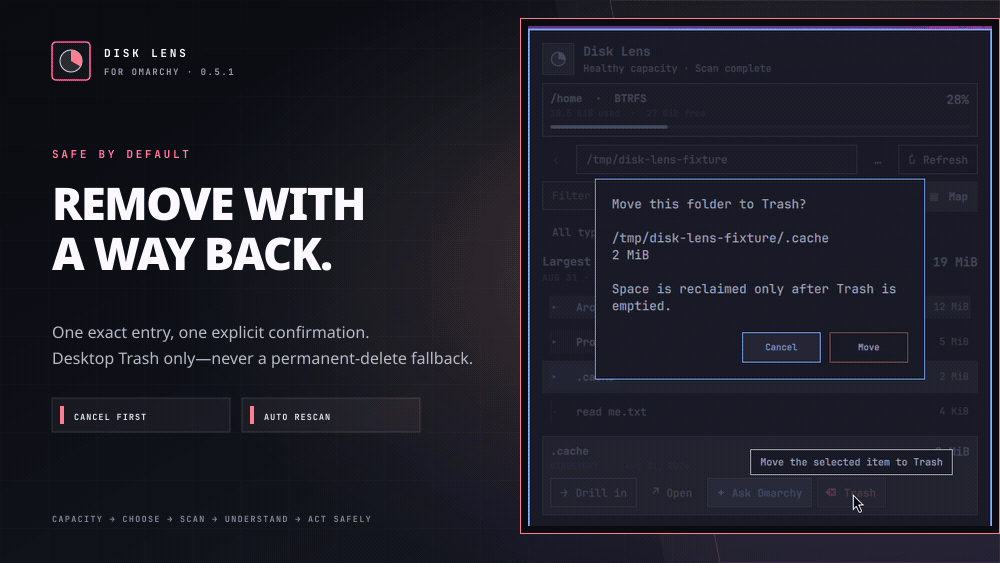
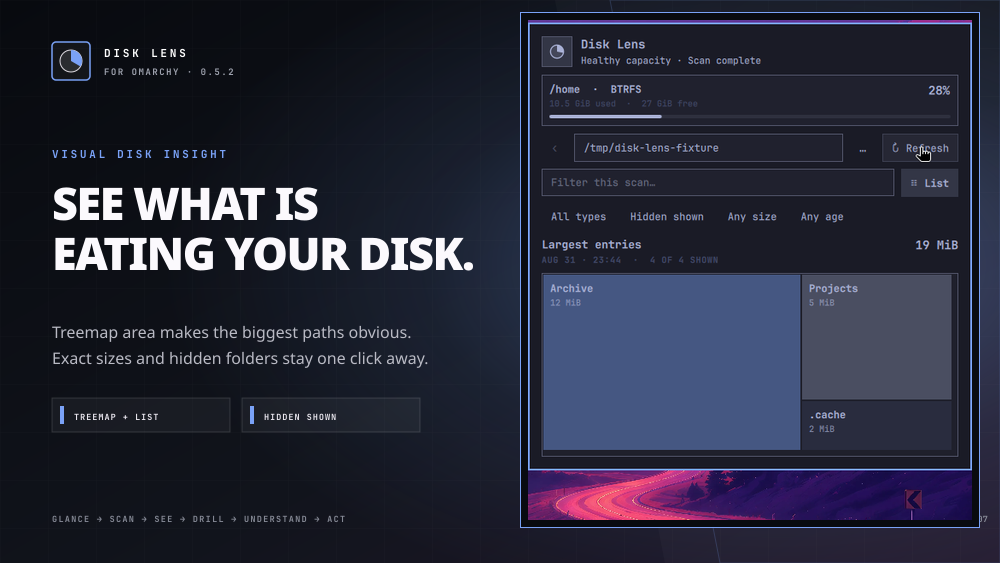
Prepare 0.5.2 insight-led release

diff --git a/src/Model.js b/src/Model.js
@@ -64,7 +64,8 @@ function parseCapacity(raw) {
 
   var fs = payload.filesystems[0]
   if (!plainObject(fs)) return emptyCapacity("Capacity values were incomplete")
-  var percent = parseInt(String(fs["use%"] || "").replace("%", ""), 10)
+  var percentMatch = /^([0-9]{1,3})%$/.exec(String(fs["use%"] || ""))
+  var percent = percentMatch ? Number(percentMatch[1]) : NaN
   if (!finiteBytes(fs.size) || !finiteBytes(fs.used)
       || !finiteBytes(fs.avail) || !isFinite(percent) || percent < 0 || percent > 100)
     return emptyCapacity("Capacity values were incomplete")
@@ -147,14 +148,14 @@ function parseScan(raw) {
         protocolError = "Scanner warning record was invalid"
         break
       }
-      warnings.push(record.message)
+      warnings.push(diagnosticText(record.message, "Scanner warning"))
     } else if (record.type === "error") {
       if (typeof record.message !== "string" || record.message.length === 0
           || record.message.length > MAX_WARNING_LENGTH) {
         protocolError = "Scanner error record was invalid"
         break
       }
-      protocolError = record.message
+      protocolError = diagnosticText(record.message, "Disk scan failed")
       break
     } else if (record.type === "complete") {
       if (!started || typeof record.path !== "string"
@@ -184,6 +185,7 @@ function parseScan(raw) {
       entries: [],
       totalBytes: 0,
       warnings: warnings,
+      warningCount: warnings.length,
       partial: false
     }
   }
@@ -201,6 +203,7 @@ function parseScan(raw) {
     entries: entries,
     totalBytes: Number(completed.totalBytes),
     warnings: warnings,
+    warningCount: Number(completed.warnings),
     partial: completed.partial === true || warnings.length > 0
   }
 }
@@ -228,8 +231,9 @@ function parseFolderList(raw) {
       break
     }
     if (record.type === "error") {
-      errorMessage = typeof record.message === "string" && record.message.length <= MAX_WARNING_LENGTH
-        ? record.message : "Folder browsing failed"
+      errorMessage = typeof record.message === "string" && record.message.length > 0
+          && record.message.length <= MAX_WARNING_LENGTH
+        ? diagnosticText(record.message, "Folder browsing failed") : "Folder browsing failed"
       break
     }
     if (record.type === "folder-start") {
@@ -260,7 +264,8 @@ function parseFolderList(raw) {
     } else if (record.type === "folder-complete") {
       if (!started || record.path !== started.path || !protocolInteger(record.entries)
           || record.entries !== entries.length || typeof record.partial !== "boolean"
-          || typeof record.warning !== "string" || record.warning.length > MAX_WARNING_LENGTH) {
+          || typeof record.warning !== "string" || record.warning.length > MAX_WARNING_LENGTH
+          || (record.warning !== "" && !record.partial)) {
         errorMessage = "Folder browser completion record was invalid"
         break
       }
@@ -281,7 +286,7 @@ function parseFolderList(raw) {
     path: completed.path,
     entries: entries,
     partial: completed.partial,
-    warning: completed.warning
+    warning: completed.warning ? diagnosticText(completed.warning, "Folder browsing was incomplete") : ""
   }
 }
 
@@ -302,6 +307,12 @@ function formatBytes(value) {
 
 function safeLabel(value) {
   return String(value || "").replace(/[\u0000-\u001f\u007f]/g, "�")
+}
+
+function diagnosticText(value, fallback) {
+  var text = safeLabel(value).trim().slice(0, MAX_WARNING_LENGTH)
+  if (text) return text
+  return safeLabel(fallback || "Operation failed").trim().slice(0, MAX_WARNING_LENGTH)
 }
 
 function safeMarkupLabel(value) {
@@ -497,6 +508,7 @@ if (typeof module !== "undefined") {
     parseFolderList: parseFolderList,
     formatBytes: formatBytes,
     safeLabel: safeLabel,
+    diagnosticText: diagnosticText,
     safeMarkupLabel: safeMarkupLabel,
     isImmediateChild: isImmediateChild,
     normalizeScopeInput: normalizeScopeInput,

diff --git a/src/Service.qml b/src/Service.qml
@@ -12,7 +12,7 @@ Item {
   property var barWidgetRegistry: null
   property string omarchyPath: ""
 
-  readonly property string buildIdentity: "disk-lens-service-v0501"
+  readonly property string buildIdentity: "disk-lens-service-v0502"
   readonly property string homePath: Quickshell.env("HOME")
   readonly property string sourceDir: manifest ? String(manifest.__sourceDir || "") : ""
   readonly property string scannerPath: sourceDir ? sourceDir + "/scripts/disk-lens-scan" : ""
@@ -30,6 +30,7 @@ Item {
   property double totalBytes: 0
   property bool partial: false
   property var warnings: []
+  property double warningCount: 0
   property string scanError: ""
   property double scannedAt: 0
   property bool expectedStop: false
@@ -72,7 +73,6 @@ Item {
 
     scanPath = selectedPath
     scanError = ""
-    warnings = []
     expectedStop = false
     scanOutput = ""
     scanStderr = ""
@@ -122,6 +122,7 @@ Item {
       entries = snapshot.entries.slice()
       totalBytes = snapshot.totalBytes
       warnings = snapshot.warnings.slice()
+      warningCount = snapshot.warningCount
       partial = snapshot.partial
       lastScanPath = snapshot.path
       scanPath = snapshot.path
@@ -208,6 +209,7 @@ Item {
     entries = result.entries
     totalBytes = result.totalBytes
     warnings = result.warnings
+    warningCount = result.warningCount
     partial = result.partial
     lastScanPath = result.path
     scanPath = result.path
@@ -220,6 +222,7 @@ Item {
       entries: entries.slice(),
       totalBytes: totalBytes,
       warnings: warnings.slice(),
+      warningCount: warningCount,
       partial: partial,
       scannedAt: scannedAt
     })
@@ -237,7 +240,7 @@ Item {
       entryCount: entries.length,
       totalBytes: totalBytes,
       partial: partial,
-      warningCount: warnings.length,
+      warningCount: warningCount,
       scanError: scanError,
       scannedAt: scannedAt,
       cacheCount: scanCache.length,
@@ -267,7 +270,7 @@ Item {
     onExited: function(exitCode) {
       if (exitCode !== 0) {
         root.capacityState = "failed"
-        root.capacityError = String(capacityStderr.text || "Could not read filesystem capacity").trim()
+        root.capacityError = Model.diagnosticText(capacityStderr.text, "Could not read filesystem capacity")
         return
       }
       var parsed = Model.parseCapacity(capacityStdout.text)
@@ -299,8 +302,8 @@ Item {
 
       if (exitCode !== 0) {
         root.trashState = "failed"
-        root.trashError = String(trashStderr.text || "The selected item could not be moved to Trash")
-          .replace(/[\u0000-\u001f\u007f]/g, " ").trim().slice(0, 8192)
+        root.trashError = Model.diagnosticText(trashStderr.text,
+          "The selected item could not be moved to Trash")
         return
       }
 
@@ -344,7 +347,8 @@ Item {
       var output = String(scanStdout.text || root.scanOutput || "")
       if (exitCode !== 0 && !output) {
         root.scanState = "failed"
-        root.scanError = String(scanStderrCollector.text || root.scanStderr || "Disk scan failed").trim()
+        root.scanError = Model.diagnosticText(scanStderrCollector.text || root.scanStderr,
+          "Disk scan failed")
         return
       }
       root.applyScanOutput(output)

diff --git a/tests/model.test.js b/tests/model.test.js
@@ -22,6 +22,9 @@ assert.equal(capacity.target, "/home")
 assert.equal(Model.parseCapacity("not json").available, false)
 assert.doesNotThrow(() => Model.parseCapacity(JSON.stringify({ filesystems: [null] })))
 assert.equal(Model.parseCapacity(JSON.stringify({ filesystems: [null] })).available, false)
+assert.equal(Model.parseCapacity(JSON.stringify({
+  filesystems: [{ size: 1000, used: 720, avail: 280, "use%": "72% full" }]
+})).available, false)
 
 const scanOutput = [
   record({ type: "start", path: "/fixture" }),
@@ -64,6 +67,11 @@ assert.equal(scan.entries.length, 2)
 assert.equal(scan.entries[0].name, "large folder")
 assert.equal(scan.partial, true)
 assert.equal(scan.totalBytes, 1000)
+assert.equal(scan.warningCount, 1)
+assert.equal(Model.parseScan(scanOutput.replace('"warnings":1', '"warnings":25')).warningCount, 25)
+const diagnosticScan = Model.parseScan(scanOutput.replace("one path was unreadable", "warning\\u0007"))
+assert.equal(diagnosticScan.ok, true)
+assert.equal(diagnosticScan.warnings[0], "warning�")
 
 assert.equal(Model.parseScan(scanOutput.replace('"protocol":1', '"protocol":2')).ok, false)
 assert.equal(Model.parseScan(scanOutput.replace(/\n[^\n]+$/, "")).ok, false)
@@ -112,6 +120,7 @@ assert.equal(Model.parseFolderList(folderOutput.replace('"entries":2', '"entries
 assert.equal(Model.parseFolderList(folderOutput.replace('"path":"/fixture/Projects"', '"path":"/outside"')).ok, false)
 assert.equal(Model.parseFolderList(folderOutput.replace('"name":"Projects"', '"name":"Projects\\u0000hidden"')).ok, false)
 assert.equal(Model.parseFolderList(folderOutput.replace(/\n[^\n]+$/, "")).ok, false)
+assert.equal(Model.parseFolderList(folderOutput.replace('"warning":""', '"warning":"unexpected"')).ok, false)
 
 const boundedWarnings = [record({ type: "start", path: "/fixture" })]
 for (let index = 0; index < Model.MAX_WARNINGS; index += 1)
@@ -143,6 +152,8 @@ assert.equal(Model.formatBytes(0), "0 B")
 assert.equal(Model.formatBytes(1024), "1 KiB")
 assert.equal(Model.formatBytes(1073741824), "1 GiB")
 assert.equal(Model.safeLabel("line\nname\t"), "line�name�")
+assert.equal(Model.diagnosticText("  line\nname\t  ", "fallback"), "line�name�")
+assert.equal(Model.diagnosticText("", "fallback"), "fallback")
 assert.equal(Model.safeMarkupLabel("/fixture/<b>&name\n"), "/fixture/&lt;b&gt;&amp;name�")
 assert.equal(Model.normalizeScopeInput("~", "/home/tester"), "/home/tester")
 assert.equal(Model.normalizeScopeInput("~/Steam/", "/home/tester"), "/home/tester/Steam")

diff --git a/src/BarWidget.qml b/src/BarWidget.qml
@@ -11,7 +11,7 @@ BarWidget {
 
   moduleName: "io.github.mtolhuys.disk-lens"
 
-  readonly property string buildIdentity: "disk-lens-widget-v0501"
+  readonly property string buildIdentity: "disk-lens-widget-v0502"
   readonly property var diskService: bar && bar.shell
     ? bar.shell.serviceFor("io.github.mtolhuys.disk-lens") : null
   readonly property var capacity: diskService ? diskService.capacity : Model.parseCapacity("")
@@ -427,7 +427,7 @@ BarWidget {
       var output = String(folderListStdout.text || "")
       if (exitCode !== 0 && !output) {
         root.folderPickerState = "failed"
-        root.folderPickerError = String(folderListStderr.text || "Folder browsing failed").trim()
+        root.folderPickerError = Model.diagnosticText(folderListStderr.text, "Folder browsing failed")
         return
       }
       var result = Model.parseFolderList(output)
@@ -1239,8 +1239,8 @@ BarWidget {
             spacing: Style.space(9)
 
             Text {
-              text: "Partial scan · " + (root.diskService ? root.diskService.warnings.length : 0)
-                + ((root.diskService && root.diskService.warnings.length === 1) ? " warning" : " warnings")
+              text: "Partial scan · " + (root.diskService ? root.diskService.warningCount : 0)
+                + ((root.diskService && root.diskService.warningCount === 1) ? " warning" : " warnings")
               color: Color.accent
               font.family: Style.font.family
               font.pixelSize: Style.font.body

diff --git a/docs/ARCHITECTURE.md b/docs/ARCHITECTURE.md
@@ -45,9 +45,9 @@ Capacity refreshes at service start, panel open, middle-click, explicit IPC requ
 
 The helper emits protocol-versioned NDJSON. The parser requires one start record, no more than 5,000 valid entry records, no more than 20 bounded warnings, and one matching completion record whose path, entry count, warning floor, totals, and completeness flag agree with the parsed stream. Paths, names, encoded paths, flags, warnings, and numeric fields have explicit type or length bounds. Unknown versions, types, malformed JSON, invalid fields, truncation, or missing completion fail the attempt without replacing the last good result.
 
-The QML process collector promotes a complete parsed result atomically. Permission and I/O messages become a bounded warning set and mark the completed result partial. Cancellation stops the helper, which terminates its owned `du` child and cleans temporary state.
+The QML process collector promotes a complete parsed result atomically. Permission and I/O messages become a bounded, control-free warning set, while the completion record retains the total warning count. Starting or cancelling a replacement scan leaves every last-good result field intact. Cancellation stops the helper, which terminates its owned `du` child and cleans temporary state.
 
-The `du` traversal is already the only recursive process. Post-processing first classifies UTF-8 once for the common case, then resolves file type and modification metadata in groups of 64 and emits JSON in groups of 64. A source regression proves that 1,024 normal entries require no more than 16 `stat` processes, 18 `jq` processes, two `iconv` processes, and no standalone `base64` process; invalid UTF-8 uses a deliberately slower isolated fallback.
+The `du` traversal is already the only recursive process. Post-processing first classifies UTF-8 once for the common case, then resolves locale-independent file type and modification metadata in groups of 64 and emits JSON in groups of 64. Valid pre-epoch timestamps normalize to the protocol's unknown-date value instead of invalidating the scan. A source regression proves that 1,024 normal entries require no more than 16 `stat` processes, 18 `jq` processes, two `iconv` processes, and no standalone `base64` process; invalid UTF-8 uses a deliberately slower isolated fallback.
 
 ## Folder browser adapter
 
@@ -59,7 +59,7 @@ The browser stays inside the Omarchy panel. A native `QtQuick.Dialogs`/GTK folde
 
 One active in-memory entry array drives both projections. Filters are pure projections over name, kind, hidden status, minimum allocated bytes, and maximum modification age. Hidden entries are included by default. Filtered bytes are labelled independently from scanned totals. Treemap geometry is bounded to the 48 largest visible entries; the ranked view renders at most 80 and directs the user to filters for further narrowing.
 
-Drilling into an actionable directory pushes the prior scope into a 16-step widget history and starts a new immediate-child scan only when that target has no cache entry. The service retains at most eight completed scopes and 12,000 total entries, with the Home result retained when it fits alongside the active result. Back promotes the cached snapshot atomically and preserves its original timestamp; explicit Refresh always starts a new scan. Version `0.5.1` does not persist scopes or results, so a shell reload returns to Home and first-use state.
+Drilling into an actionable directory pushes the prior scope into a 16-step widget history and starts a new immediate-child scan only when that target has no cache entry. The service retains at most eight completed scopes and 12,000 total entries, with the Home result retained when it fits alongside the active result. Back promotes the cached snapshot atomically and preserves its original timestamp; explicit Refresh always starts a new scan. Version `0.5.2` does not persist scopes or results, so a shell reload returns to Home and first-use state.
 
 `src/ActivityRing.qml` paints the single theme-derived scan ring around the bar gauge, exists visually only while its `running` property is true, and exposes progress semantics. Panel status and Cancel remain literal and static, so scan state stays available when motion cannot be perceived.
 
@@ -77,7 +77,7 @@ After success, the service clears its navigation cache, refreshes capacity, and 
 
 ## Btrfs accounting
 
-Filesystem free space and per-path allocation answer different questions. Snapshots, compression, and shared extents can explain a gap. Version `0.5.1` does not calculate exclusive/shared extents, snapshot ownership, or reclaimable bytes.
+Filesystem free space and per-path allocation answer different questions. Snapshots, compression, and shared extents can explain a gap. Version `0.5.2` does not calculate exclusive/shared extents, snapshot ownership, or reclaimable bytes.
 
 ## Lifecycle and development snapshots
 

diff --git a/docs/SCREENSHOTS.md b/docs/SCREENSHOTS.md
@@ -12,15 +12,15 @@ Repository media must come from the current Disk Lens runtime in a disposable Om
 - `disk-lens-agent.png`: selected synthetic directory with visible **Ask Omarchy** and **Trash** actions;
 - `disk-lens-filtered-list.png`: one-result ranked list after rendered search and view controls;
 - `disk-lens-showcase.gif`: deterministic widescreen product tour built from the captures above;
-- `preview.png`: deterministic marketplace preview extracted from the safe-removal scene.
+- `preview.png`: deterministic marketplace preview built from the opening visual-insight scene.
 
-The GIF presents seven truthful native scenes: one clear starting action, in-place folder choice, explicit scanning, visual analysis, recoverable selected-item removal, read-only agent guidance, and focused filtering. It stays legible at GitHub README width and does not imply automatic scans, permanent deletion, empty-Trash cleanup, privileged analysis, package installation, or a sandboxed agent.
+The GIF leads with visual analysis, then presents capacity, in-place folder choice, explicit scanning, focused filtering, read-only agent guidance, and recoverable selected-item removal. It stays legible at GitHub README width and does not imply automatic scans, permanent deletion, empty-Trash cleanup, privileged analysis, package installation, or a sandboxed agent.
 
 ## Current provenance
 
-All seven source captures come from green `0.5.1` Plugin Lab run `20260831-234322`, which exercised clean repository candidate `671be6091a981f651e6cedd13a77a9000512375a` through installed development snapshot `489839281f1f`. The synthetic `1280x800` captures cover first use without a duplicate header close action, the inline browser, the single-indicator scan state, hidden-by-default storage visibility, exact-target Trash confirmation, the selected-folder agent action, and filtering.
+Until the `0.5.2` candidate completes its exact-candidate visual run, all seven source captures remain the synthetic `1280x800` images from green `0.5.1` Plugin Lab run `20260831-234322`. The candidate does not claim those historical captures as new runtime evidence; they temporarily preserve truthful first-use, inline-browser, single-indicator, treemap, Trash, agent, and filter compositions while the release media is prepared.
 
[2 lines of base64/hex data omitted]
 
 Rebuild both derivatives with:
 

diff --git a/docs/TESTING.md b/docs/TESTING.md
@@ -11,7 +11,7 @@ make test
 make validate
 ```
 
-`make test` proves the manifest and entry points; strict capacity, scan, and shallow-folder parsing; bounded paths, warnings, totals, completion accounting, and post-processing process counts; deterministic formatting, scope normalization, navigation helpers, filtering, totals, and treemap geometry; hidden and hostile filenames plus invalid UTF-8 handling; guarded Trash arguments, parent-scope enforcement, symlink treatment, no-shell hostile paths, and no permanent-delete fallback; usable partial results; cancellation cleanup; rejected invalid arguments; English tracked text; and ShellCheck when available. Fixtures use temporary synthetic directories only and never traverse the developer's Home directory or modify the host desktop Trash.
+`make test` proves the manifest and entry points; strict capacity, scan, and shallow-folder parsing; bounded control-free diagnostics, paths, warnings, totals, completion accounting, and post-processing process counts; locale-independent kind detection and pre-epoch timestamp normalization; generated-helper-to-model compatibility; deterministic formatting, scope normalization, navigation helpers, filtering, totals, and treemap geometry; hidden and hostile filenames plus invalid UTF-8 handling; guarded Trash arguments, parent-scope enforcement, symlink treatment, no-shell hostile paths, and no permanent-delete fallback; usable partial results; cancellation cleanup; rejected invalid arguments; English tracked text; and ShellCheck when available. Fixtures use temporary synthetic directories only and never traverse the developer's Home directory or modify the host desktop Trash.
 
 ## Product-owned Plugin Lab scenario
 
@@ -36,7 +36,7 @@ cd "$OMARCHY_PLUGIN_LAB_ROOT"
 10. a same-path public plugin update replacing both loaded identities;
 11. disable, re-enable, removal, ordinary user-data preservation, retained desktop Trash contents, and clean logs.
 
-`public-install.sh` separately proves that the README's public GitHub URL clones the expected repository commit, passes Omarchy validation, enables and loads both `v0501` entry points, and removes cleanly through the documented plugin id. It must be rerun after the candidate is published; the local development acceptance does not substitute for public-clone evidence.
+`public-install.sh` separately proves that the README's public GitHub URL clones the expected repository commit, passes Omarchy validation, enables and loads both `v0502` entry points, and removes cleanly through the documented plugin id. It must be rerun after the candidate is published; the local development acceptance does not substitute for public-clone evidence.
 
 ## Visual review boundary
 

diff --git a/README.md b/README.md
@@ -1,12 +1,12 @@
 # Omarchy Disk Lens
 
-> A calm, visual answer to “what is eating my disk?” for Omarchy.
+> See exactly what is eating your disk—without leaving Omarchy.
 
-![Omarchy Disk Lens product tour: capacity, active scan, treemap, safe Trash confirmation, agent guidance, and focused filtering](docs/media/disk-lens-showcase.gif)
+![Omarchy Disk Lens product tour: visual disk insight, capacity, scope selection, active scan, focused filtering, agent guidance, and safe Trash confirmation](docs/media/disk-lens-showcase.gif)
 
-Disk Lens puts storage pressure in one quiet Omarchy bar slot. Open it for exact Home-filesystem capacity, type or browse to a scope, explicitly scan it, and use the ranked list or proportional treemap to find the branch worth investigating.
+Disk Lens turns “my disk is full” into an obvious next step. One quiet bar icon opens a proportional treemap and exact ranked list, so the biggest local paths stand out immediately—even when the storage lives inside hidden folders.
 
-Version **0.5.1** is the current public pre-1.0 release. Its quieter header, active-bar toggle, complete native journey, and clean GitHub distribution path are verified in disposable Omarchy desktops.
+Version **0.5.2** is the current pre-1.0 release candidate. It combines the complete native analysis journey with stricter scanner boundaries, resilient refresh state, and a marketplace story led by visual insight instead of cleanup.
 
 ## The useful path from full disk to a clear next step
 
@@ -96,6 +96,6 @@ Start with [CONTRIBUTING.md](CONTRIBUTING.md), [the product contract](docs/PRODU
 
 ## Status
 
-The public `0.5.1` release has source, clean-clone, real-shell, active-bar toggle, inline-folder, typed-scope, cache-restored Back, single-indicator, guarded Trash, visual, hostile-path agent-prompt, update, and lifecycle evidence in disposable guests. Scanner post-processing has a source-enforced process budget. End-to-end performance budgets, dense/narrow layouts, pressure fixtures, complete assistive-technology review, and composed reduced-motion acceptance remain explicit pre-1.0 hardening work.
+The `0.5.2` candidate retains the complete verified `0.5.1` product journey, adds scanner and refresh-state hardening, and makes visual disk insight the opening README and marketplace story. Exact-candidate runtime and public-clone evidence are required before publication. End-to-end performance budgets, dense/narrow layouts, pressure fixtures, complete assistive-technology review, and composed reduced-motion acceptance remain explicit pre-1.0 hardening work.
 
 MIT licensed. See [LICENSE](LICENSE).

diff --git a/docs/PRODUCT.md b/docs/PRODUCT.md
@@ -4,7 +4,7 @@
 
 Omarchy Disk Lens makes Home-filesystem pressure understandable within seconds and provides a clear, fully native route from “the disk is filling up” to “this directory deserves investigation.”
 
-## Implemented `0.5.1` journey
+## Implemented `0.5.2` journey
 
 1. The bar shows used capacity for the filesystem backing Home as a compact proportional pie gauge.
 2. Clicking the widget opens a theme-native panel without starting a recursive scan.
@@ -64,7 +64,7 @@ Omarchy Disk Lens makes Home-filesystem pressure understandable within seconds a
 - **Self-contained:** the full visual analysis flow needs no additional graphical package.
 - **Private by default:** capacity and directory analysis stay local. The explicit agent hand-off delegates path and size data to the user's configured agent, whose provider and network behavior are outside Disk Lens.
 
-## Non-goals for `0.5.1`
+## Non-goals for `0.5.2`
 
 - Automatic cleanup, permanent deletion, empty-Trash management, bulk actions, or scripted recipes.
 - Root scanning, a privileged GUI, or privilege handling inside Disk Lens.

diff --git a/CHANGELOG.md b/CHANGELOG.md
@@ -2,6 +2,20 @@
 
 All notable changes to Omarchy Disk Lens are documented here. The format follows Keep a Changelog and the project uses Semantic Versioning.
 
+## 0.5.2 — 2026-09-01
+
+### Changed
+
+- Reframed the README tour and static marketplace preview around the product's central value: making the largest disk consumers visually obvious.
+- Tightened the marketplace and bar-widget descriptions and bumped the manifest plus loaded service/widget identities for the `0.5.2` release.
+
+### Fixed
+
+- Made scanner file-kind classification independent of the desktop locale, so translated `stat` output cannot turn directories into non-actionable entries.
+- Normalized valid pre-epoch modification timestamps to the existing unknown-date representation instead of rejecting the complete scan protocol.
+- Centralized bounded, control-free process diagnostics before they enter panel state.
+- Preserved the complete last-good warning state across refresh cancellation and report the scanner's total warning count even when only the first 20 messages are retained.
+
 ## 0.5.1 — 2026-08-31
 
 ### Changed

diff --git a/docs/SECURITY.md b/docs/SECURITY.md
@@ -40,7 +40,7 @@ The confirmation snapshot contains the selected path, displayed allocation, kind
 
 ## State and lifecycle
 
-Version `0.5.1` keeps capacity, bounded navigation snapshots, folder-browser state, filters, selection, Trash status, and agent-dispatch bookkeeping in memory. It writes no scan-result cache or plugin settings. Disablement and plugin removal unload the service and widget without deleting scanned files or emptying desktop Trash. The opt-in development installer uses a dedicated XDG-cache snapshot and replaces only plugin id `io.github.mtolhuys.disk-lens`.
+Version `0.5.2` keeps capacity, bounded navigation snapshots, folder-browser state, filters, selection, Trash status, and agent-dispatch bookkeeping in memory. It writes no scan-result cache or plugin settings. Disablement and plugin removal unload the service and widget without deleting scanned files or emptying desktop Trash. The opt-in development installer uses a dedicated XDG-cache snapshot and replaces only plugin id `io.github.mtolhuys.disk-lens`.
 
 ## Vulnerability reporting
 

diff --git a/SUPPORT.md b/SUPPORT.md
@@ -1,6 +1,6 @@
 # Support
 
-Omarchy Disk Lens `0.5.1` is the current public pre-1.0 release. Interfaces may still evolve, and formal compatibility guarantees remain release-hardening work.
+Omarchy Disk Lens `0.5.1` is the current public pre-1.0 release; `0.5.2` is the current release candidate. Interfaces may still evolve, and formal compatibility guarantees remain release-hardening work.
 
 Development feedback should include:
 
